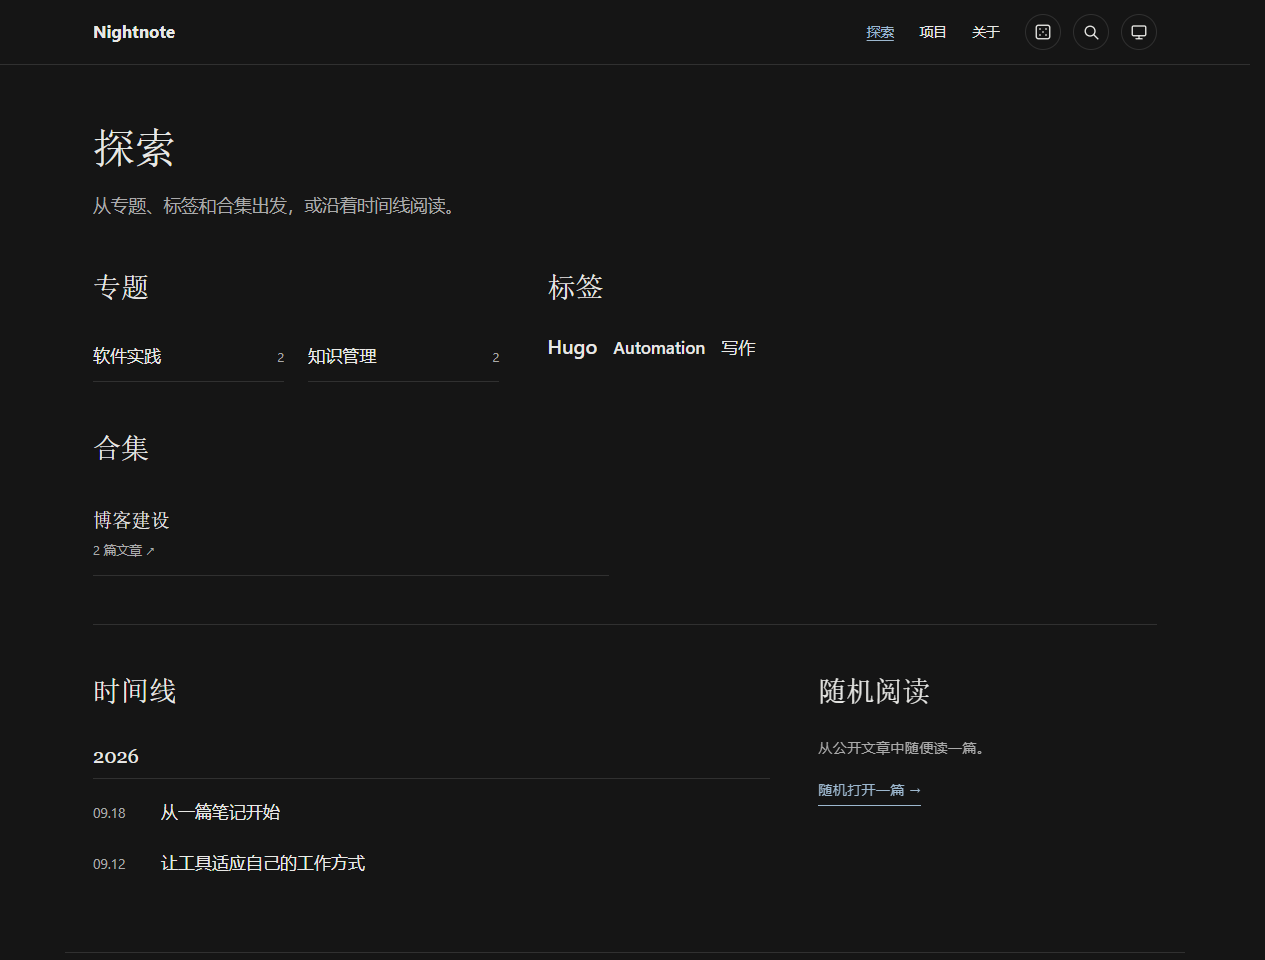
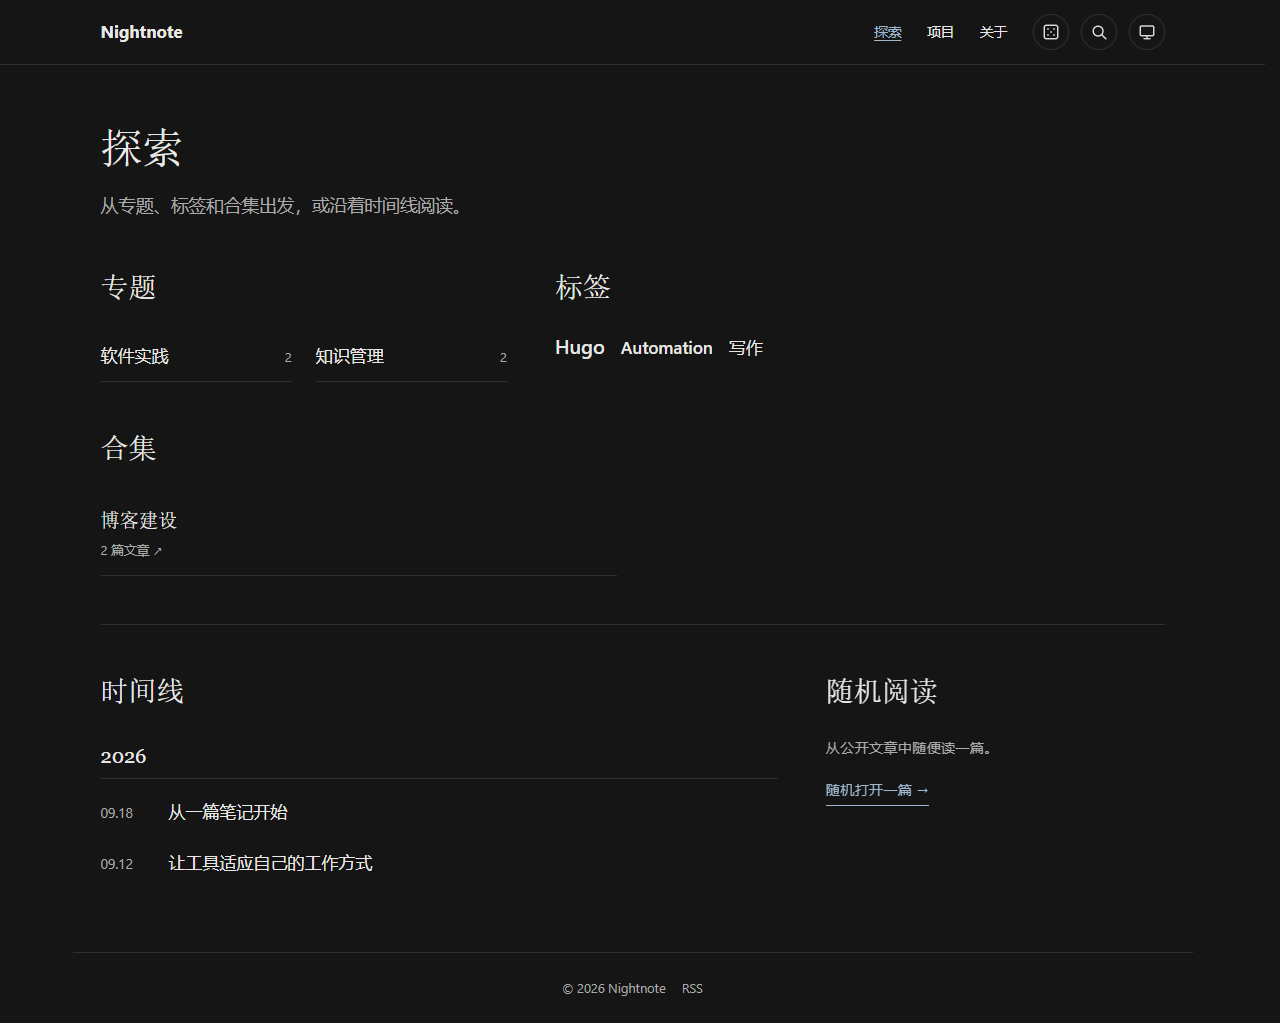
Show full-page light and dark theme previews

diff --git a/README.md b/README.md
@@ -6,23 +6,31 @@ Nightnote 是面向 Obsidian 笔记的 Hugo 个人博客主题，采用简洁的
 
 ## 视觉预览
 
-以下截图来自仓库自带的独立 `exampleSite/` 演示内容。
+以下整页截图来自仓库自带的独立 `exampleSite/`。合成图沿对角线展示深色（左）和浅色（右）；每页也提供未经合成的原图，便于查看完整细节。
 
-### 首页 · 浅色
+### 首页
 
-![Nightnote 首页浅色模式，包含简介、标签和近期文章](docs/screenshots/home-light.png)
+![Nightnote 首页整页，左侧深色、右侧浅色，展示简介、文章和精选项目](docs/screenshots/home-split.png)
 
-### 探索 · 深色
+[深色原图](docs/screenshots/home-dark.png) · [浅色原图](docs/screenshots/home-light.png)
 
-![Nightnote 探索页深色模式，包含专题、标签、合集和时间线](docs/screenshots/explore-dark.png)
+### 探索
 
-### 项目 · 浅色
+![Nightnote 探索页整页，左侧深色、右侧浅色，展示专题、标签、合集和时间线](docs/screenshots/explore-split.png)
 
-![Nightnote 项目页浅色模式，展示有封面和无封面的项目卡片](docs/screenshots/projects-light.png)
+[深色原图](docs/screenshots/explore-dark.png) · [浅色原图](docs/screenshots/explore-light.png)
 
-### 窄屏 · 深色
+### 项目
 
-<img src="docs/screenshots/projects-mobile-dark.png" alt="Nightnote 项目页在窄屏深色模式下的卡片布局" width="390">
+![Nightnote 项目页整页，左侧深色、右侧浅色，展示有封面和无封面的项目卡片](docs/screenshots/projects-split.png)
+
+[深色原图](docs/screenshots/projects-dark.png) · [浅色原图](docs/screenshots/projects-light.png) · [390px 窄屏深色原图](docs/screenshots/projects-mobile-dark.png)
+
+### 关于我
+
+![Nightnote 关于页整页，左侧深色、右侧浅色，展示 Markdown 正文和联系入口](docs/screenshots/about-split.png)
+
+[深色原图](docs/screenshots/about-dark.png) · [浅色原图](docs/screenshots/about-light.png)
 
 ## 安装与使用
 
